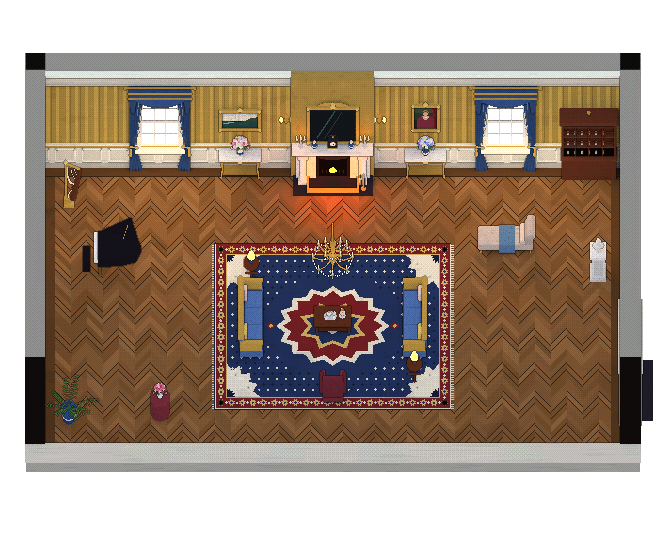
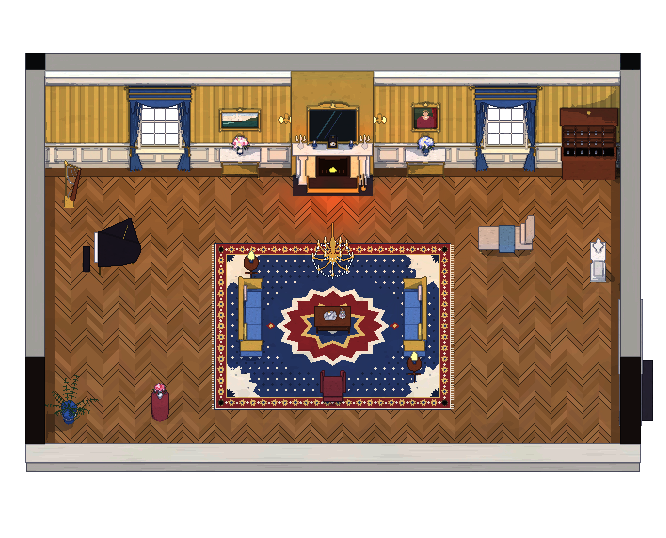
Ashcombe House's drawing room re-rendered in the toy finish: its chandelier and sconces stay lit, and a warm night ambient keeps the floor in one even band instead of dark patches
Claude-Session: https://claude.ai/code/session_018nrKRFmqoRAiZo7miU6eXz

diff --git a/tools/bridge-art/scenes/lumar_manor_drawing.py b/tools/bridge-art/scenes/lumar_manor_drawing.py
@@ -51,7 +51,7 @@ E.vase_of_flowers(k, 12.9, 2.22, 0.86, s=0.95, col=SILK, band='#f0ece4', kind='b
 E.portrait(k, 12.9, 2.0, 1.72, w=0.72, h=0.98, sitter='lady', coat='#7a2a3a', hair='#c8a060', bg=('#2a3a2a', '#3a4a36', '#22261a'))
 E.china_cabinet(k, 17.15, 18.85, 2.0, top=2.45)
 for x in (8.55, 11.45):
-    E.sconce(k, x, 2.0, z=2.2, energy=5)
+    E.sconce(k, x, 2.0, z=2.2, energy=2.5)
 
 # ---- the piano and the harp, the chaise ------------------------------------------------------------------------------
 CA.grand_piano(k, 3.15, 5.05, col='#16121a', facing='right')
@@ -88,7 +88,7 @@ E.vase_of_flowers(k, 4.6, 9.7, z, s=0.75, col='#f0ece4', kind='rose')
 for (x, r) in ((5.5, 9.0), (15.0, 9.5)):
     k.point_light(x, r, 3.1, '#ffd8a8', 30, radius=0.6, group='lamp')
 
-render(k, OUT)
+render(k, OUT, ambient=('#5a4a40', 1.8))     # a warm night ambient keeps the floor in one band of the toy finish
 
 I = [door('THE HALL', x, y, 'lumar-manor', [1, 10]) for (x, y) in EAST]
 I += [
